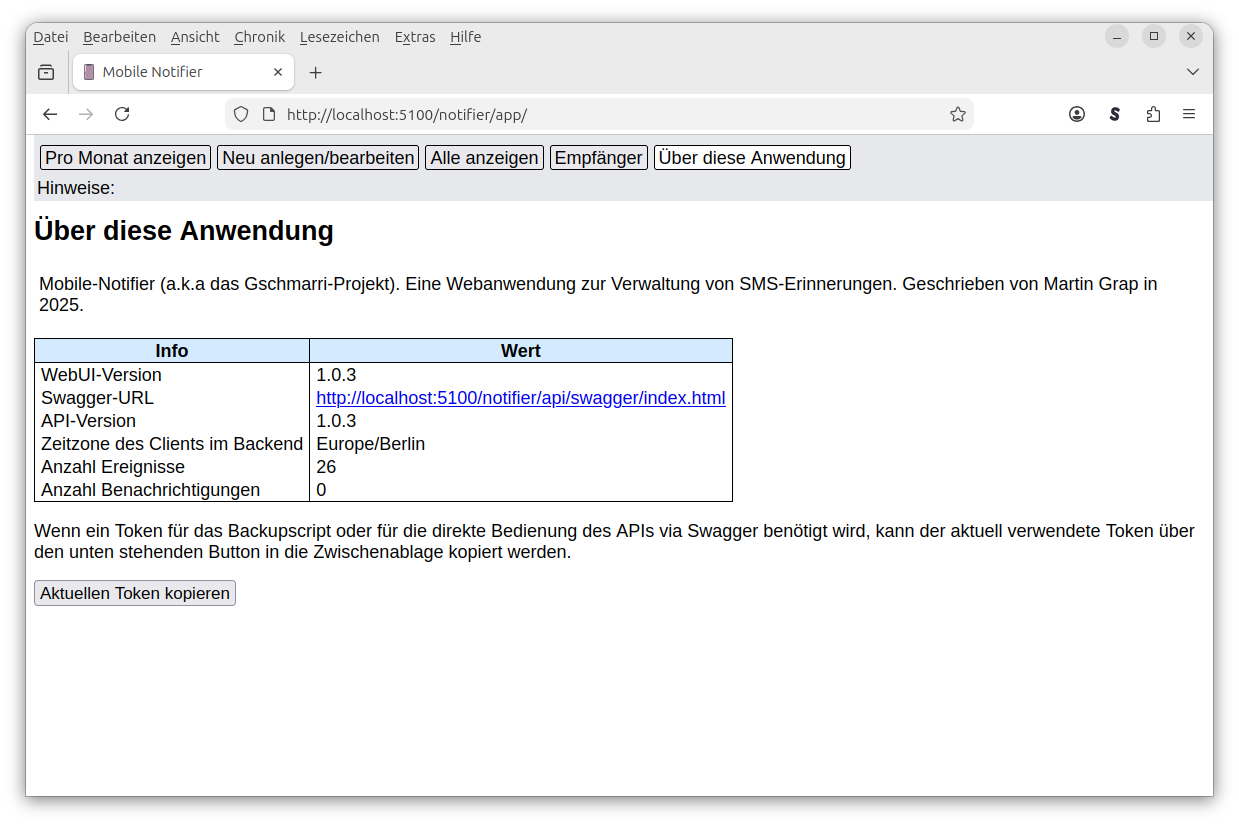
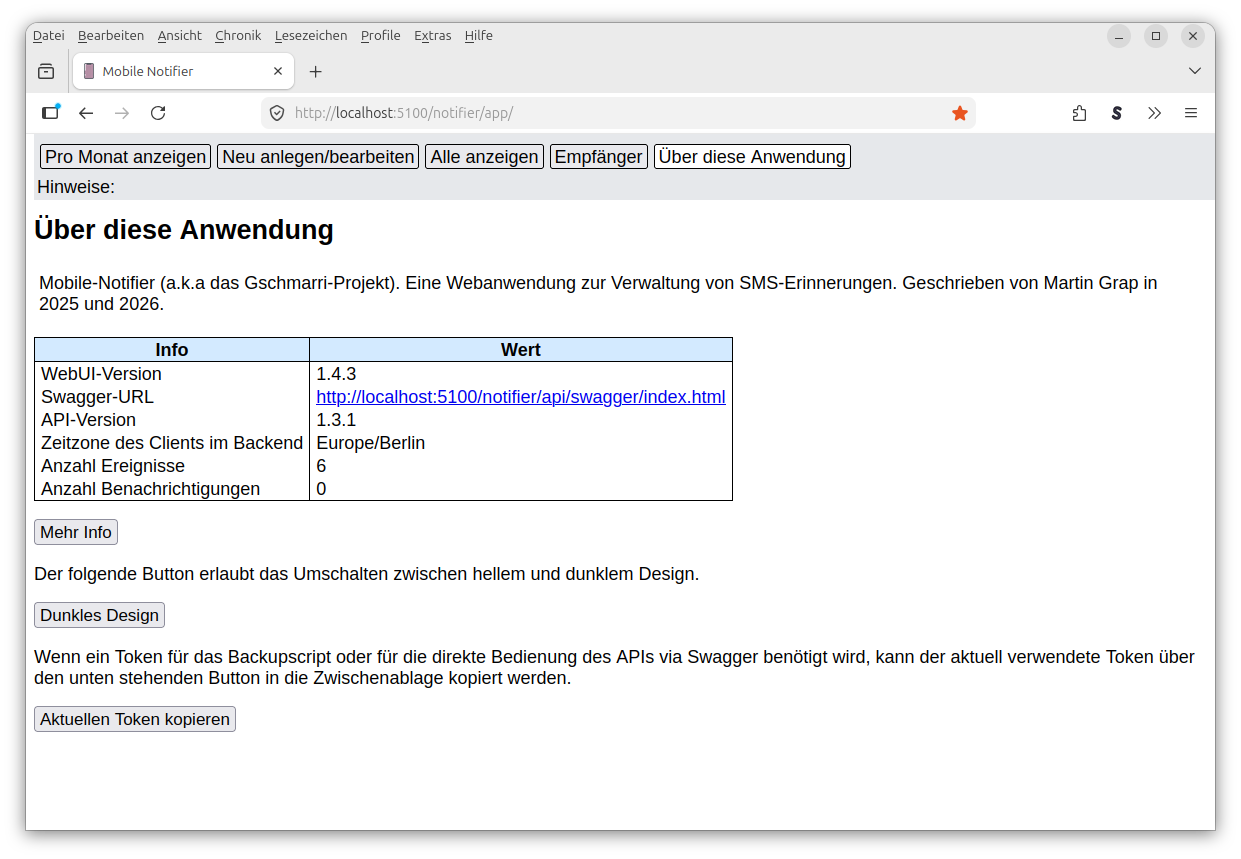
Implement dark mode

Changed region(s): [[0.0307, 0.0303, 0.9814, 0.7273], [0.0307, 0.7576, 0.9814, 0.8485]]

diff --git a/frontend/src/assets/main.css b/frontend/src/assets/main.css
@@ -4,6 +4,12 @@
   box-sizing: border-box;
 }
 
+/* Page defaults, driven by variables so the theme can switch them */
+body {
+  background-color: var(--global-background);
+  color: var(--global-foreground);
+}
+
 /* set font for specified elements */
 html,
 label {
@@ -21,6 +27,17 @@ select {
   font-size: 17px;
 }
 
+/* In dark mode Chrome draws native button borders with very low contrast, so
+   buttons look borderless. Give them an explicit border. The explicit border
+   squares off the corners (the native rounding is part of the native
+   appearance), so restore it with an explicit border-radius matching the
+   navbuttons. Firefox accepts this harmlessly; Safari ignores a custom border
+   on native push-buttons and keeps its own (already-bordered) native button. */
+[data-theme="dark"] button {
+  border: 1px solid var(--global-border);
+  border-radius: 3px;
+}
+
 /* -------------------------------------- */
 /* Main menu */
 
@@ -28,7 +45,7 @@ select {
   float: left;
   margin: 3px;
   border-radius: 3px;
-  border: 1px Solid Black;
+  border: 1px solid var(--global-border);
   font-size: 18px;
 }
 
@@ -59,6 +76,13 @@ fieldset {
   margin-bottom: 15px;
 }
 
+/* Firefox's default fieldset border is a groove whose shading is derived from
+   the background, so it nearly vanishes in dark mode. Give it an explicit
+   border to match Chrome. */
+[data-theme="dark"] fieldset {
+  border: 1px solid var(--global-border);
+}
+
 .message-text {
   background-color: var(--global-table-header);
 }
@@ -84,23 +108,23 @@ td.list-weekly {
 /* Draw external borders and column borders. No border between rows*/
 .about-table,
 .table-list-events {
-  border-top: 1px Solid Black;
-  border-left: 1px Solid Black;
-  border-bottom: 1px Solid Black;
+  border-top: 1px solid var(--global-border);
+  border-left: 1px solid var(--global-border);
+  border-bottom: 1px solid var(--global-border);
   border-spacing: 0;
 }
 
 /* While we draw no lines for the rows, we still want to draw lines for the columns */
 .table-about-elem,
 .table-list-events-elem {
-  border-right: 1px Solid Black;
+  border-right: 1px solid var(--global-border);
 }
 
 /* Draw a box around the header of the tables holding event lists and the about info */
 .table-about-header,
 .table-list-events-header {
-  border-right: 1px Solid Black;
-  border-bottom: 1px Solid Black;
+  border-right: 1px solid var(--global-border);
+  border-bottom: 1px solid var(--global-border);
   background-color: var(--global-table-header);
 }
 
@@ -144,7 +168,7 @@ td.list-weekly {
 
 /* Draw black lines between the table columns of the warning specification */
 .warningspec td {
-  border-right: 1px solid #000;
+  border-right: 1px solid var(--global-border);
   padding-right: 5px;
   padding-left: 5px;
 }
@@ -179,9 +203,16 @@ td.list-weekly {
   height: 100%;
 }
 
-/* Make selected day appear differently without breaking default styling */
+/* Mark the selected day with a bold label and an accent ring. We use outline
+   (not filter or box-shadow): filter makes Chrome drop the native border, and an
+   inset box-shadow is hidden by Firefox's native button background. An outline
+   is painted on top of the native control in both Chrome and Firefox, so it
+   stays visible without disturbing the native border; the negative offset insets
+   it so the table cell can't clip it.  */
 .dateselectbutton-current {
   width: 100%;
   height: 100%;
-  filter: brightness(0.8);
+  font-weight: bold;
+  outline: 2px solid var(--global-select-highlight);
+  outline-offset: -4px;
 }

diff --git a/frontend/src/assets/base.css b/frontend/src/assets/base.css
@@ -10,11 +10,18 @@
   --global-faint-green: #cbf1cb;
   --global-faint-blue: #cff2f5;
 
+  /* Let the browser theme native form controls (buttons, inputs, selects,
+     scrollbars) to match the active theme. */
+  color-scheme: light;
+
   /* Logical colours*/
   --global-background: var(--global-white);
+  --global-foreground: #000000;
+  --global-border: #000000;
   --global-highlight: var(--light-grey);
   --global-hover: var(--dark-grey);
   --global-table-header: var(--global-light-blue);
+  --global-select-highlight: var(--global-foreground);
 
   /* derived colours*/
   --nav-bar-background: var(--global-highlight);
@@ -23,4 +30,26 @@
   --list-yearly-highlight: var(--global-highlight);
   --list-monthly-highlight: var(--global-faint-green);
   --list-weekly-highlight: var(--global-faint-blue)
+}
+
+/* Dark theme: re-define the logical colours. The derived colours that
+   reference logical ones (nav bar, menu, yearly highlight, ...) recompute
+   automatically, since CSS variables resolve at use-time. */
+[data-theme="dark"] {
+  color-scheme: dark;
+  --global-background: #1f2227;
+  --global-foreground: #e6e8eb;
+  --global-border: #5a5f66;
+  --global-highlight: #2c313a;
+  --global-hover: #3a4049;
+  --global-table-header: #2a3b4d;
+  --global-select-highlight: var(--global-white);
+  /* The selected nav item defaults to --global-background, which is too close
+     to the nav bar (--global-highlight) in dark mode. Override it with a
+     distinctly darker shade so the active tab stays visible. */
+  --menu-active: #14161a;
+  /* highlights that derive from palette greens/blues, not from --global-highlight */
+  --list-monthly-highlight: #e87025;
+  --list-weekly-highlight: #d19321;
+  --list-yearly-highlight: #69574ed2;
 }

diff --git a/frontend/src/components/About.vue b/frontend/src/components/About.vue
@@ -11,17 +11,29 @@ export default {
       reminderCount: 0,
       notificationCount: 0,
       showExtendedInfo: false,
-      infoButtonText: showSimpleInfoText
+      infoButtonText: showSimpleInfoText,
+      darkMode: false
     }
   },
   props: ['versioninfo', 'clienttz', 'apilink', 'elemcount', 'metrics'],
   emits: ['copy-token'],
+  created() {
+    // The theme attribute lives on <html>, which persists even when this
+    // panel unmounts/remounts, so derive the button state from the DOM.
+    this.darkMode = document.documentElement.getAttribute('data-theme') === 'dark';
+  },
   methods: {
     copyTokenClicked() {
       this.$emit('copy-token')
     },
     toggleInfo() {
       this.showExtendedInfo = !this.showExtendedInfo;
+    },
+    toggleDarkMode() {
+      this.darkMode = !this.darkMode;
+      const theme = this.darkMode ? 'dark' : 'light';
+      document.documentElement.setAttribute('data-theme', theme);
+      sessionStorage.setItem('theme', theme); 
     }
   },
   computed: {
@@ -34,6 +46,9 @@ export default {
       } else {
         return showExtendedInfoText;
       }
+    },
+    darkModeButtonText() {
+      return this.darkMode ? "Helles Design" : "Dunkles Design";
     }
   },
   watch: {
@@ -104,6 +119,10 @@ export default {
         </tr>
       </table>
     </p>
+    <p/>
+    Der folgende Button erlaubt das Umschalten zwischen hellem und dunklem Design.
+    <p/>
+    <button @click="toggleDarkMode()">{{ darkModeButtonText }}</button>
     <p/>
     Wenn ein Token für das Backupscript oder für die direkte Bedienung des APIs via Swagger benötigt wird, kann der aktuell verwendete Token über
     den unten stehenden Button in die Zwischenablage kopiert werden.

diff --git a/frontend/index.html b/frontend/index.html
@@ -2,6 +2,16 @@
 <html lang="">
   <head>
     <meta charset="UTF-8">
+    <!-- Restore the saved theme before the stylesheet is applied, so a reload
+         never flashes the light theme before switching to dark. Must stay a
+         classic (non-module) inline script so it runs synchronously during
+         parse, before first paint. -->
+    <script>
+      const savedTheme = sessionStorage.getItem('theme');
+      if (savedTheme != null) {
+        document.documentElement.setAttribute('data-theme', savedTheme);
+      }
+    </script>
     <link rel="icon" href="/favicon.ico">
     <meta name="viewport" content="width=device-width, initial-scale=1.0">
     <title>Mobile Notifier</title>

diff --git a/frontend/src/components/PopupModal.vue b/frontend/src/components/PopupModal.vue
@@ -52,7 +52,7 @@ export default {
 }
 
 .window {
-  background: #fff;
+  background: var(--global-background);
   border-radius: 5px;
   box-shadow: 2px 4px 8px rgba(0, 0, 0, 0.2);
   max-width: 480px;

diff --git a/frontend/src/components/globals.js b/frontend/src/components/globals.js
@@ -3,7 +3,7 @@ const newSelected = 2;
 const allSelected = 3;
 const aboutSelected = 4;
 const recipientListSelected = 5;
-const versionString = "1.4.2";
+const versionString = "1.4.3";
 
 class DeleteNotification {
    constructor(id, description) {